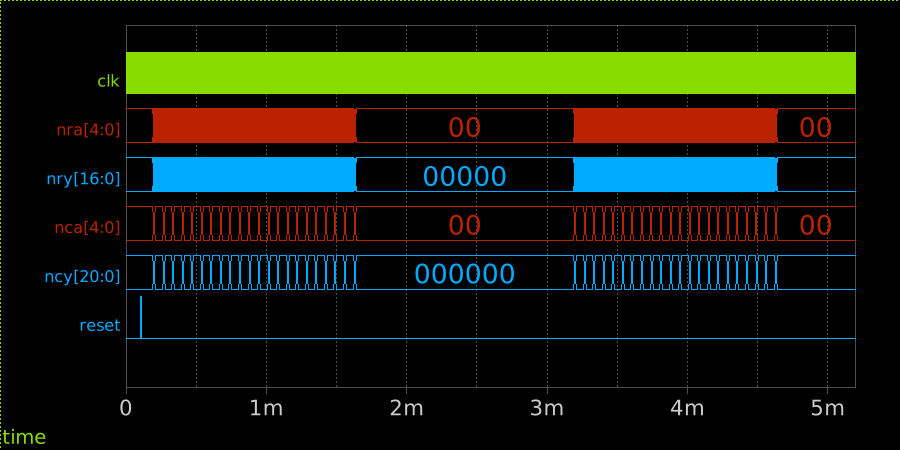
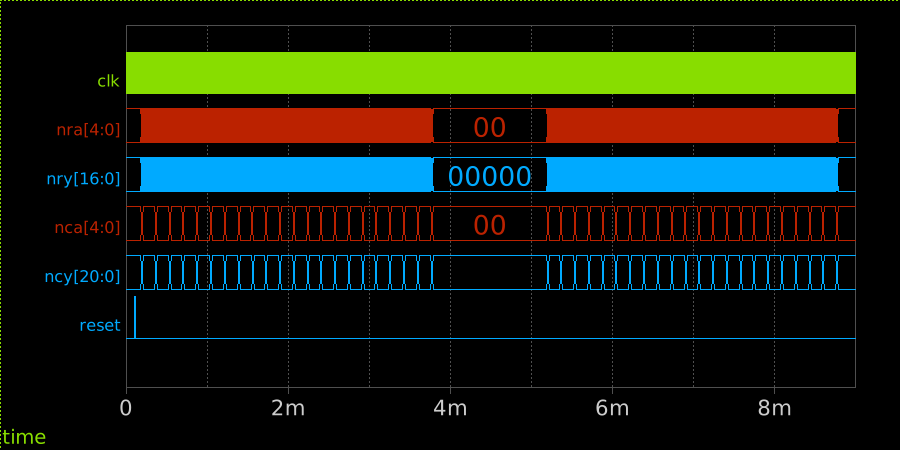
Go to 10us pixel time for total transient sim.

diff --git a/xschem/test/tb_total_tran.py b/xschem/test/tb_total_tran.py
@@ -6,8 +6,8 @@ import numpy as np
 NROWS    = 17
 NCOLUMNS = 21
 FIRST_PIXEL = 200
-DT_PIXEL = 4
-CDS_TIME = 3000
+DT_PIXEL = 10
+CDS_TIME = 5000
 
 plt.rcParams['lines.linewidth'] = 0.5
 

diff --git a/xschem/test/gen_pixel_array.py b/xschem/test/gen_pixel_array.py
@@ -26,8 +26,8 @@ NROWS = 17
 NCOLS = 21
 
 START_T = 200
-CDS_T   = 3000
-PIXEL_T = 4
+CDS_T   = 5000
+PIXEL_T = 10
 
 index = 100
 
